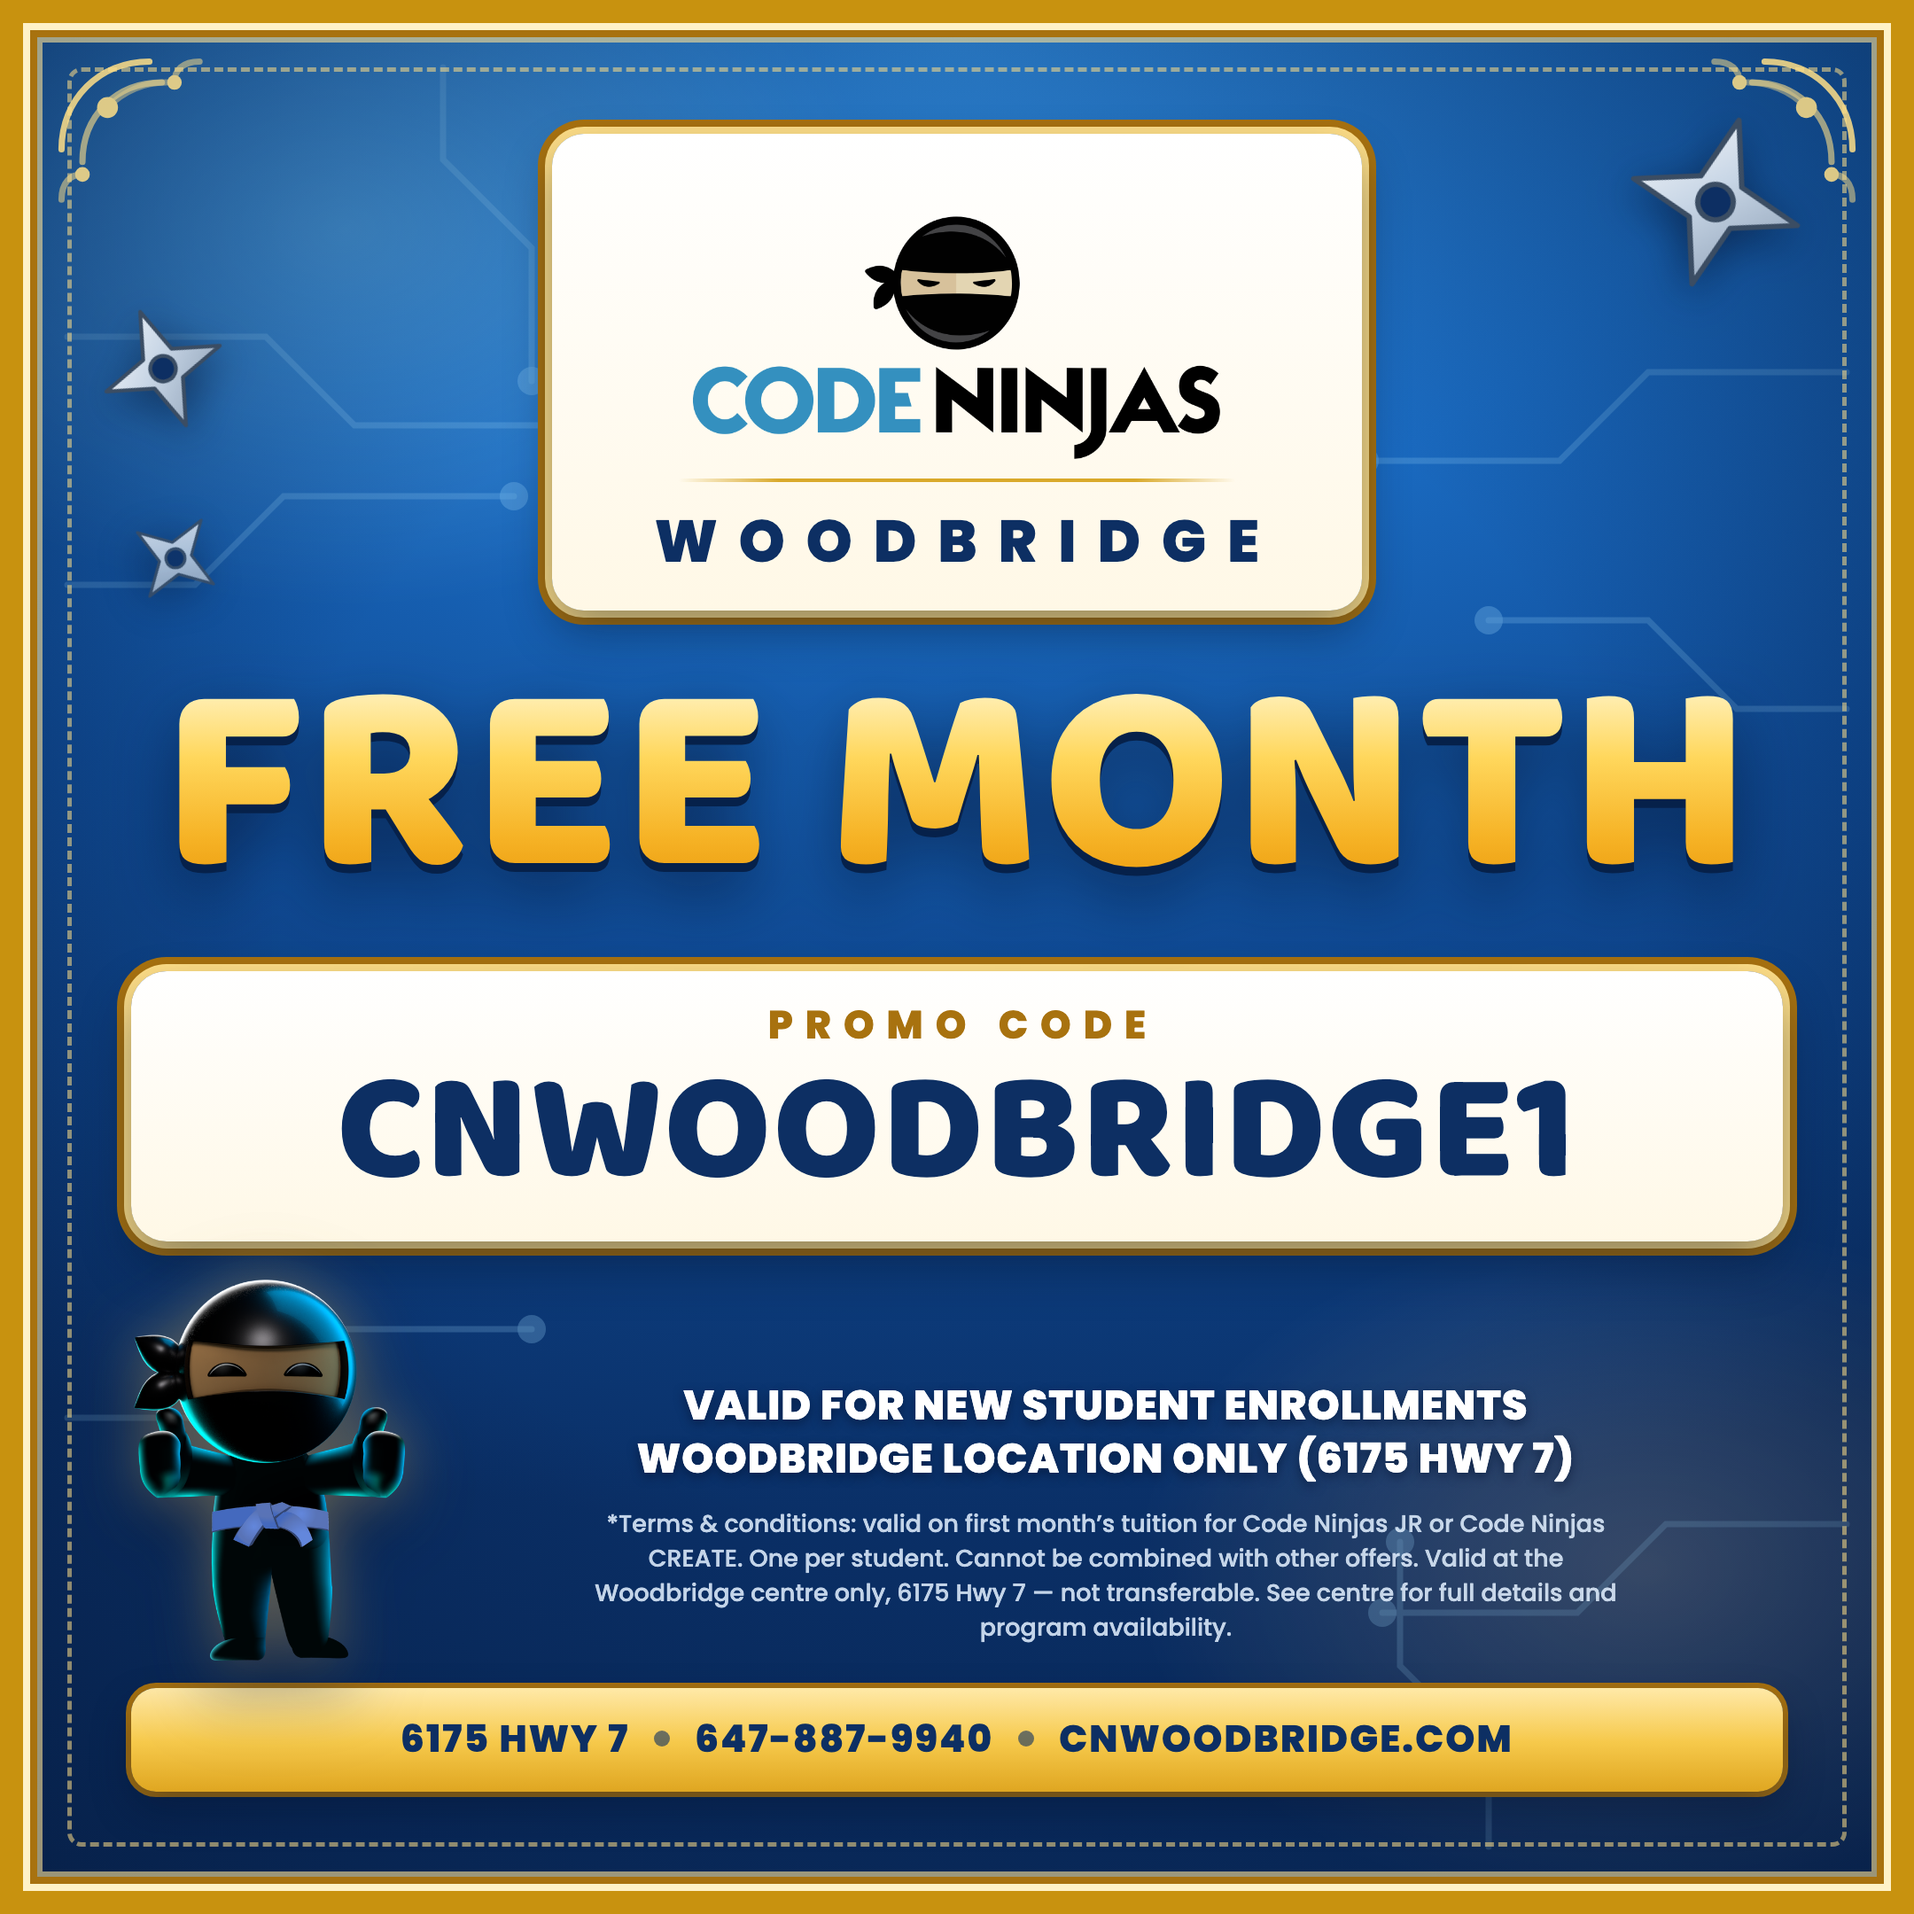
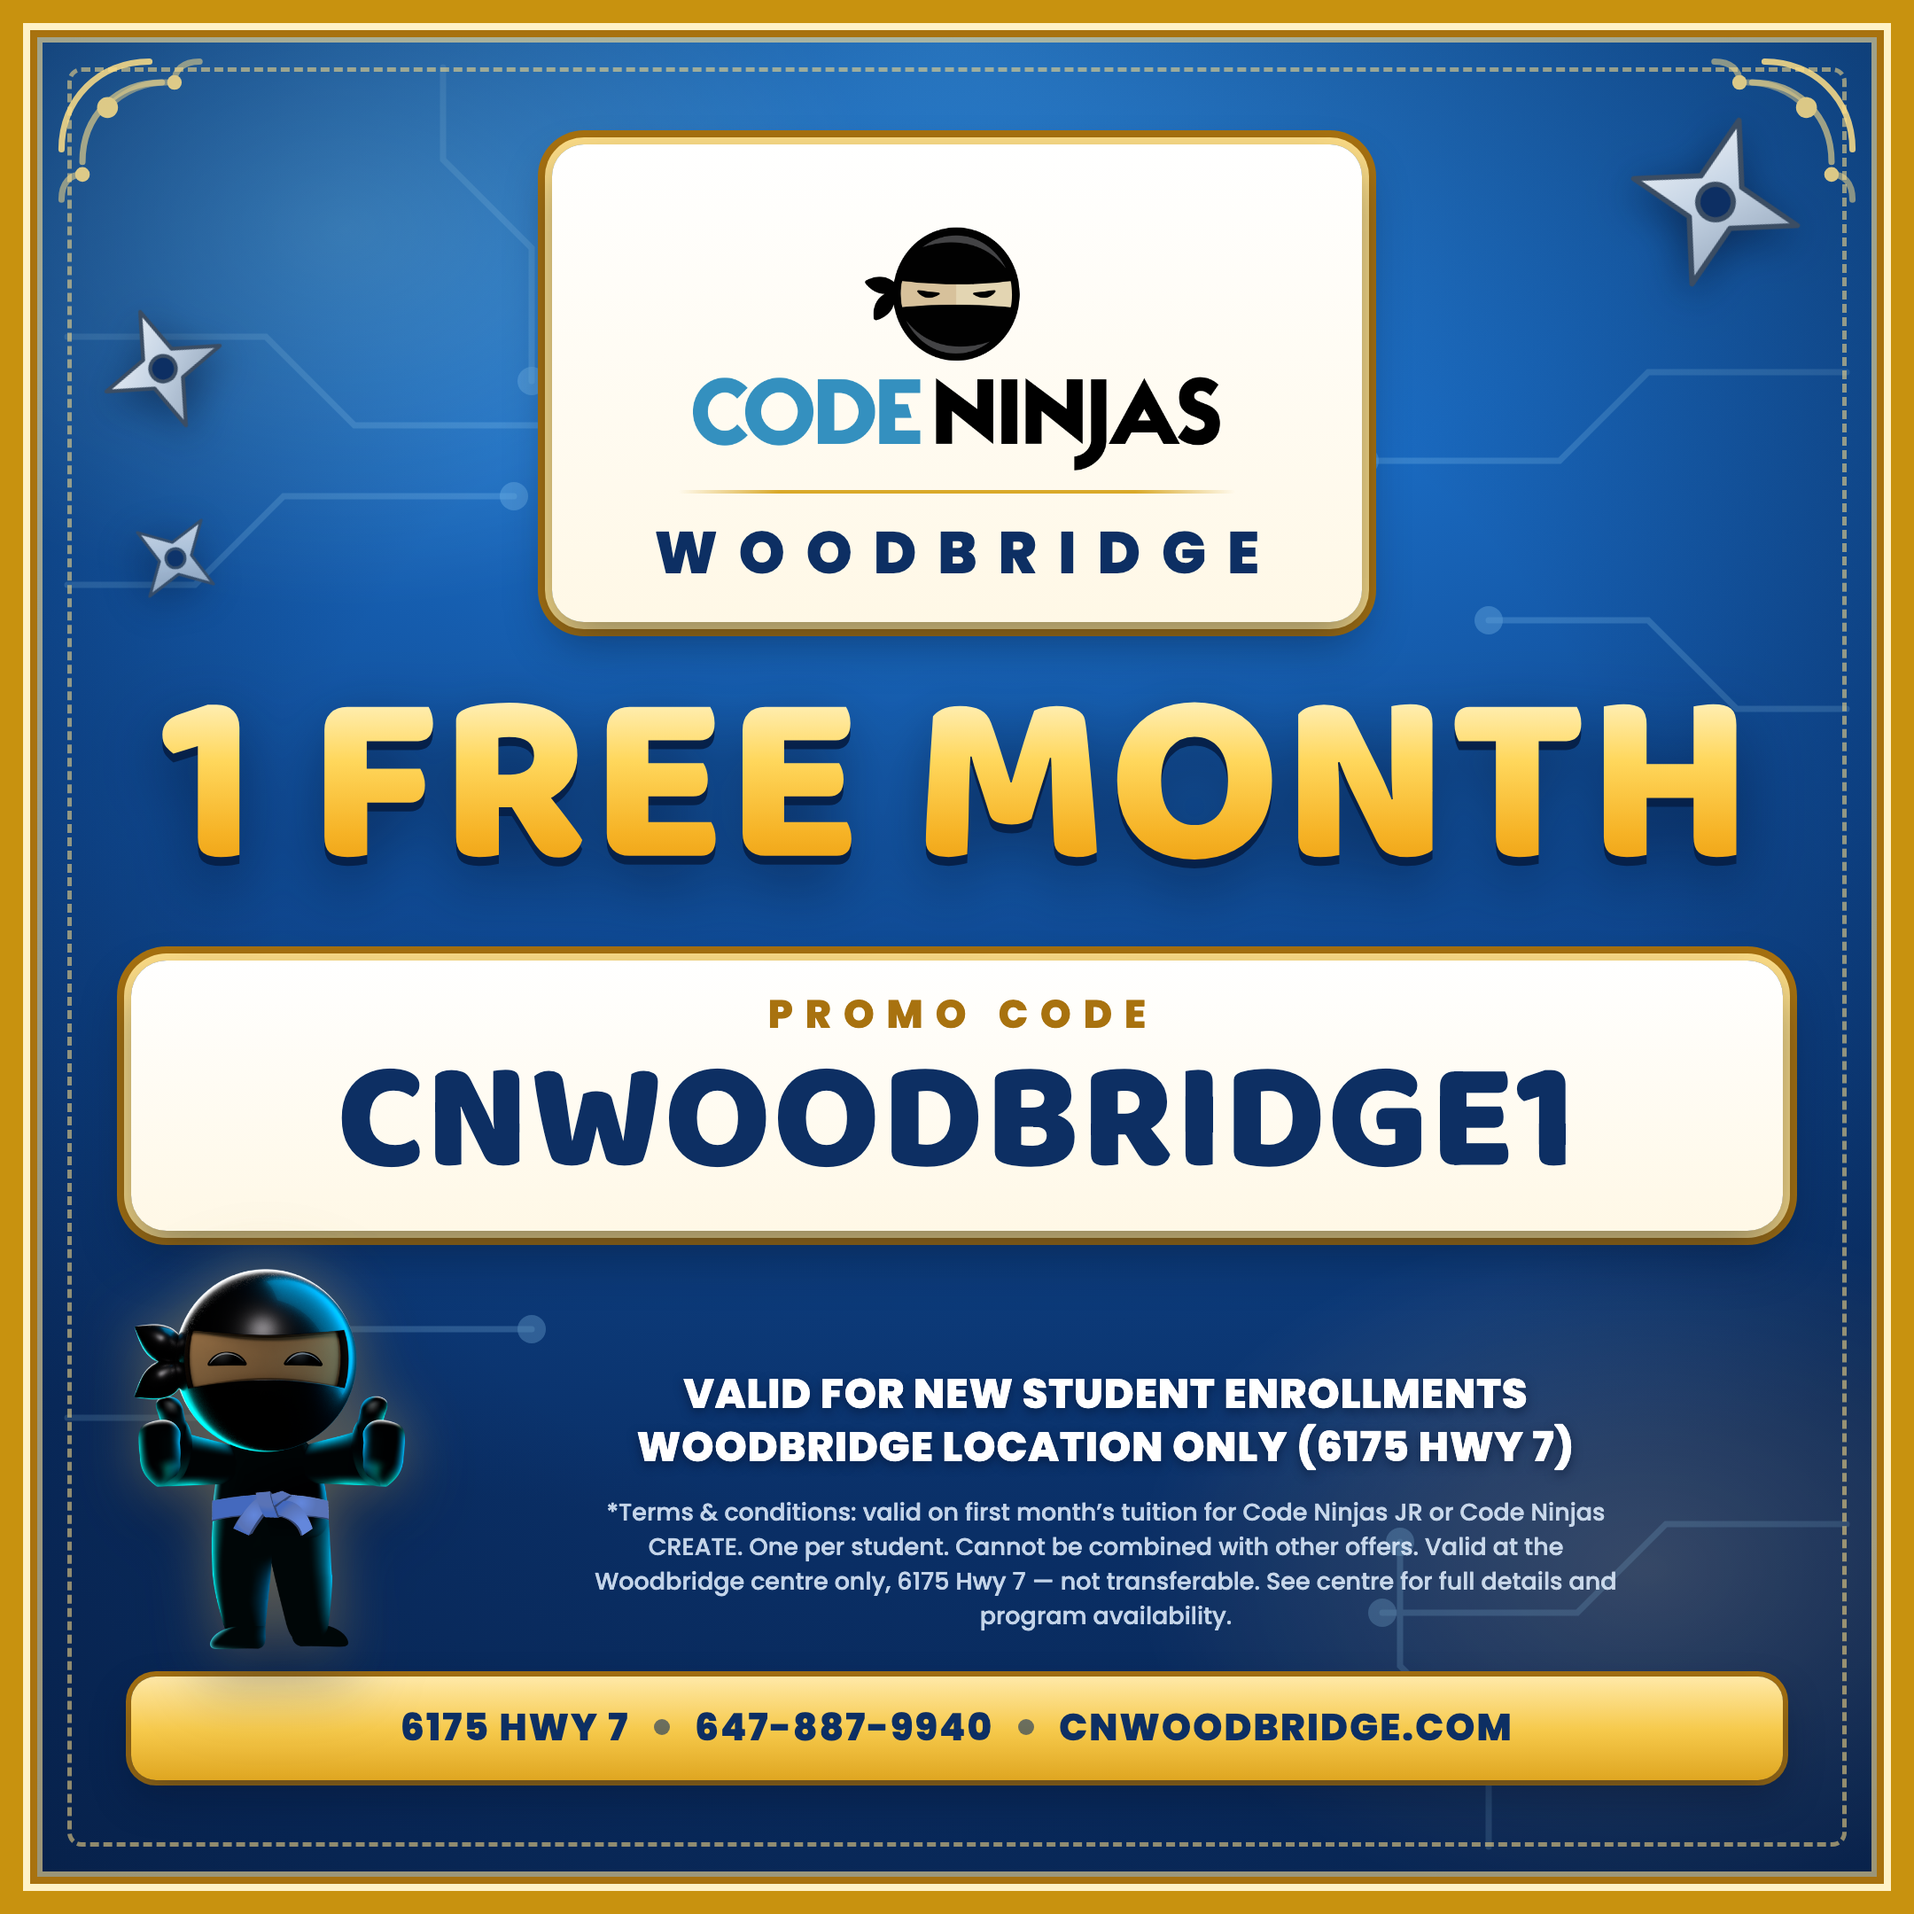
Coupon: "1 FREE MONTH"
The headline was set at 152px, which fitted "FREE MONTH" to the gold frame with
very little to spare. Two more glyphs on a nowrap line would have run under the
rim, so the size comes down to 138px. Noted inline — the 152 was fitted, not
chosen, and the next edit to this line will have the same problem.

Re-rendered to 2160x2160.

Claude-Session: https://claude.ai/code/session_01CaRgcd1PioR1xNEP6x7bJF

Changed region(s): [[0.062, 0.4963, 0.9306, 0.9616], [0.1551, 0.062, 0.8995, 0.4653], [0.062, 0.3412, 0.1551, 0.4653]]

diff --git a/print/coupon/coupon.html b/print/coupon/coupon.html
@@ -72,7 +72,9 @@
   .headline {
     margin-top:30px;
     font-family:'Baloo 2','Arial Rounded MT Bold',sans-serif;
-    font-weight:800; font-size:152px; line-height:.92; letter-spacing:1px;
+    /* 152px fitted "FREE MONTH"; "1 FREE MONTH" is two glyphs wider and the
+       line is nowrap, so it has to come down to stay inside the gold frame. */
+    font-weight:800; font-size:138px; line-height:.92; letter-spacing:1px;
     background:linear-gradient(180deg,#fff6cf 4%,#ffd75c 38%,#f6b326 70%,#e79305 100%);
     -webkit-background-clip:text; background-clip:text; color:transparent;
     filter:drop-shadow(0 5px 0 #06214a) drop-shadow(0 12px 18px rgba(2,14,40,.5));
@@ -211,7 +213,7 @@
       <div class="wb">WOODBRIDGE</div>
     </div>
 
-    <div class="headline">FREE MONTH</div>
+    <div class="headline">1 FREE MONTH</div>
 
     <div class="code">
       <div class="lab">PROMO CODE</div>
